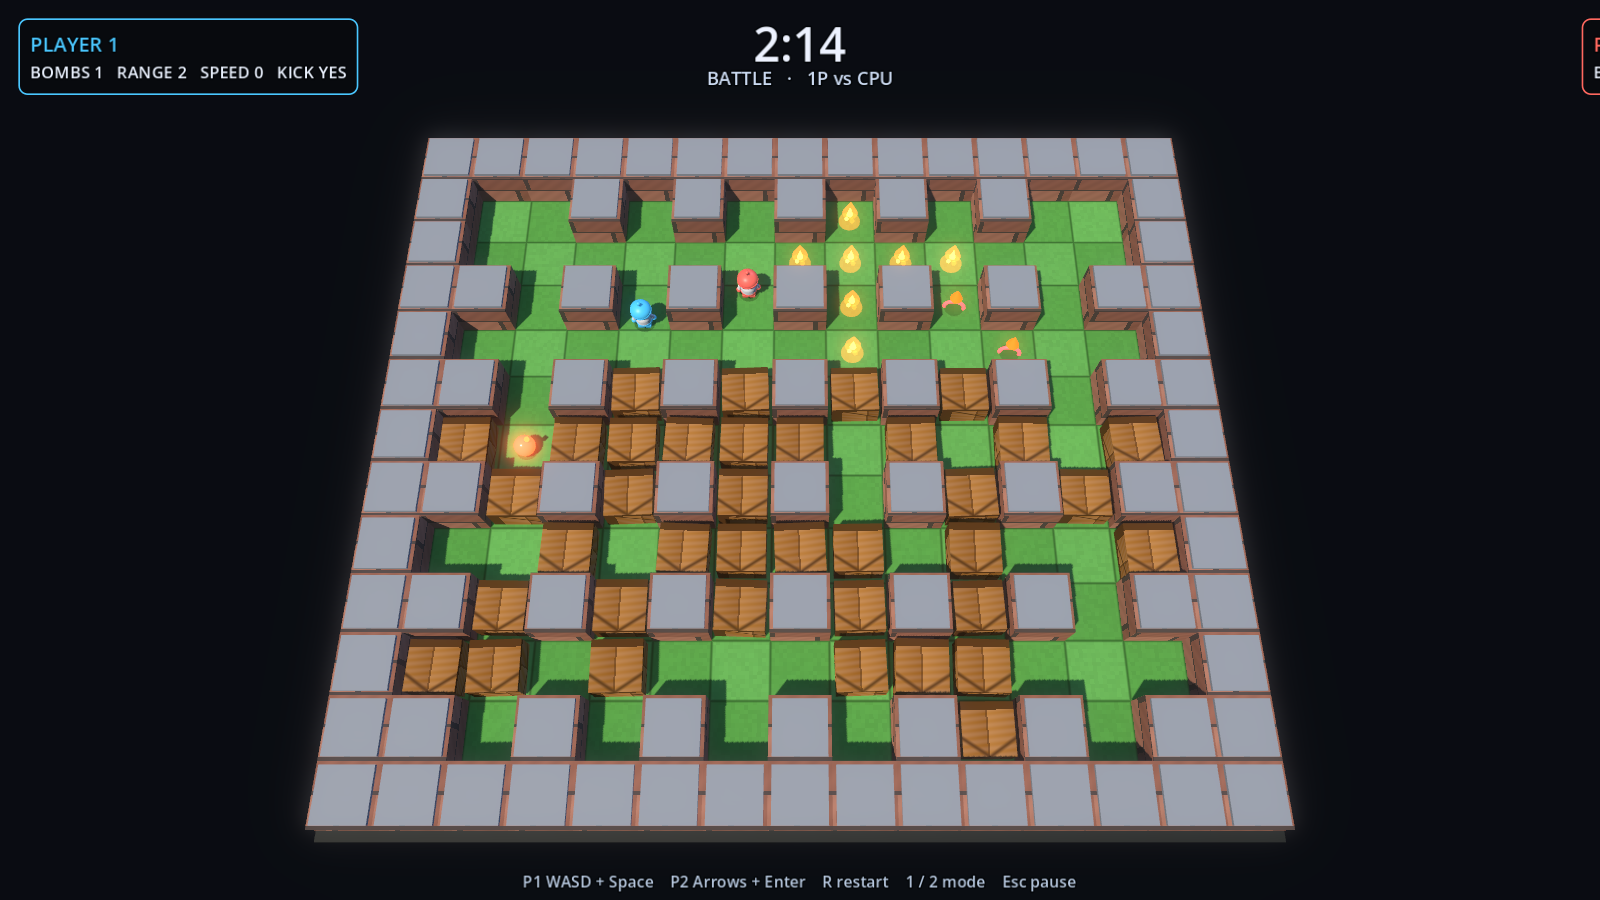
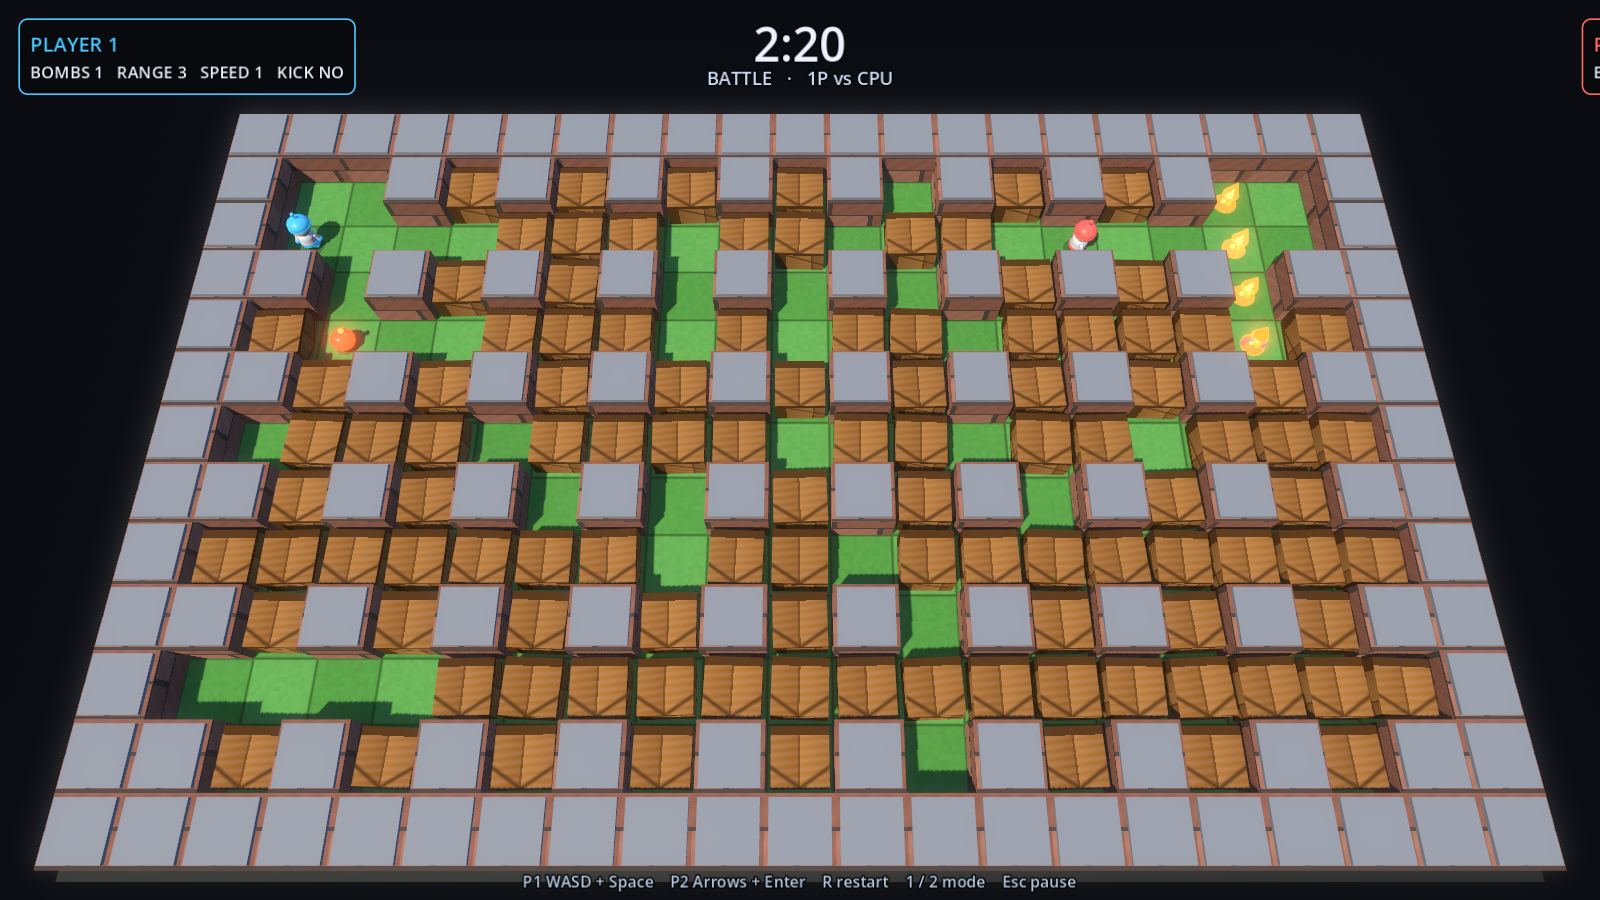
M2.7: fill the frame with a 21x13 arena and dense crates
Widen the playfield from 15x13 to 21x13, raise camera fit margin to 1.0, and push crate density to 82% so breakable cover outnumbers interior pillars (~1.95:1 on seed 4242). Keep the odd/odd pillar lattice and 3x3 spawn pocket after self-play rejected the even/even and 5x5 variants. Regenerate golden hashes, extend the UI flow round budget past sudden death, and run self-play on the shipping rules-driven arena. Update README, progress log, technical design, and the gameplay screenshot.

diff --git a/docs/PROGRESS.md b/docs/PROGRESS.md
@@ -4,11 +4,13 @@ Updated: 2026-11-04
 Environment: Windows 11 · Godot 4.7.2 stable · Python 3.12 · Node 24 · Git
 Project: `C:\Users\ALMASA\OneDrive\Documents\Default Project\fuse`
 
-**Status: M2.5 complete (verified). The game boots into a localized front end (English +
+**Status: M2.7 complete (verified). The game boots into a localized front end (English +
 Arabic with RTL), plays a best-of series with local 1P/2P, pause, settings and procedural
 SFX, and the arena now reads like classic Bomberman (grass checkerboard, brick pillars,
-wooden crates, white-suited fighters, glossy bombs, layered fire). Character art is still
-code-built primitives; no music, no external models/textures.**
+wooden crates, white-suited fighters, glossy bombs, layered fire). The **21×13 arena
+fills the 16:9 frame** and its **dense crate field outnumbers the permanent pillars**.
+Character art is still code-built primitives; no music, no external models/textures.
+Touch controls are wired into the input router but not yet shown on a build.**
 
 | Milestone | State |
 | --- | --- |
@@ -16,11 +18,63 @@ code-built primitives; no music, no external models/textures.**
 | M1 grey-box playable | ✅ complete, committed `4979242` |
 | M2 local versus front end | ✅ complete, committed `ee511a0` |
 | M2.5 localization + classic art pass | ✅ complete, committed `162e633` |
-| M2.6 input & feel pass | ✅ complete, verified (74 tests, 525 assertions) |
+| M2.6 input & feel pass | ✅ complete, committed `812d707` |
+| M2.7 full-screen arena + crate density | ✅ complete, verified (74 tests, 534 assertions) |
 | M3 vertical slice | ⬜ next |
 | M4 adventure campaign | ⬜ not started |
 | M5 online beta | ⬜ not started |
 | M6 release | ⬜ not started |
+
+---
+
+## M2.7 — full-screen arena + crate density (verified)
+
+### What changed for the player
+
+- **The board fills the screen.** The playfield widened from 15×13 to **21×13** and the
+  camera now frames it edge-to-edge (`FIT_MARGIN` 0.90 → 1.0). On a 1920×1080 capture the
+  arena occupies ~72 % of the width at the far edge, ~96 % at the near edge and ~97 % of
+  the height, instead of sitting inside a dark frame.
+- **Crates outnumber permanent rocks.** Crate density raised from 62 % to **82 %** of the
+  free interior. Seed 4242 at 21×13 produces **113 crates vs 58 interior pillars** (1.95:1);
+  the old 15×13 / 62 % board produced 72 vs 40. More cover means more routes to blast open
+  and fewer empty stone corridors.
+- **Classic pillar lattice kept.** Permanent rocks stay on the odd/odd lattice with the
+  3×3 spawn pocket, so the familiar two-tile lanes and safe openings remain.
+
+### Verification evidence
+
+```
+74 test(s), 534 assertion(s), 0 failure(s)
+PASS                                   (EXIT=0)
+UI flow: 56 check(s)                   (EXIT=0)
+AI self-play: ticks=4387 phase=4 winner=0
+  bombs=72 explosions=69 crates=90 pickups=24 eliminations=3 first_elim=396
+PASS                                   (EXIT=0)
+boot smoke, 180 frames                 (EXIT=0, no SCRIPT ERROR)
+core boundary check passed (11 file(s))     (EXIT=0)
+```
+
+Golden hashes were regenerated for the new arena dimensions/density:
+
+| Scenario | Hash |
+| --- | --- |
+| seed 4242, 600 ticks, scripted | `3624302480` |
+| seed 4242, 200 ticks, idle | `1871792400` |
+| seed 4242, 200 ticks, scripted | `4233387856` |
+
+The UI flow test now allows 15,000 ticks per round. A 1P round with an idle human only
+resolves after the match clock reaches sudden death (~9,400 ticks), so the old 9,000-tick
+cap stopped just before the CPU could win.
+
+### Tuning notes
+
+- The offset pillar lattice (even/even) and a 5×5 spawn pocket were both rejected: the
+  first made bots self-eliminate almost immediately, the second failed all tested
+  configurations at ~176 ticks. Odd/odd + a 3×3 pocket is the stable layout.
+- Self-play remains seed-sensitive at 82 % density: the official seed resolves, but some
+  seeds stalemate or end early. Arena balance tooling (`tools/arena_balance.gd`) is kept
+  for future tuning.
 
 ---
 
@@ -144,13 +198,13 @@ SMOKE_EXIT=0 · SELFPLAY_EXIT=0 · BOUNDARY_EXIT=0
 New coverage: mid-tile reversal, reversal blocked by a bomb, bomb-press buffering and
 expiry, countdown buffering, and `tests/test_input_router.gd` for event latching
 (bomb/P2/global actions/clear/suspend). Golden hashes were intentionally regenerated for
-the new speed curve and buffered-bomb state:
+the new speed curve and buffered-bomb state, then again in M2.7 for the 21×13 / 82 % arena:
 
 | Scenario | Hash |
 | --- | --- |
-| seed 4242, 600 ticks, scripted | `3618636086` |
-| seed 4242, 200 ticks, idle | `3308826698` |
-| seed 4242, 200 ticks, scripted | `4227721462` |
+| seed 4242, 600 ticks, scripted | `3624302480` |
+| seed 4242, 200 ticks, idle | `1871792400` |
+| seed 4242, 200 ticks, scripted | `4233387856` |
 
 ---
 
@@ -259,7 +313,8 @@ No `SCRIPT ERROR`, parse error or leaked-object warning in the log.
 
 ### What a player can do
 
-- Launch the project and immediately play a full match on a generated 15×13 arena.
+- Launch the project and immediately play a full match on a generated arena (currently
+  21×13 with a dense crate field).
 - **1P vs CPU** (default) or **2P local** (`1` / `2` to switch modes).
 - Move in cardinal directions with buffered input, drop bombs, chain-detonate them,
   destroy crates, collect four pickup types (extra bomb, range, speed, kick).
@@ -424,13 +479,13 @@ Behavior contracts pinned by tests:
 ### 5. Golden hashes
 
 Locked in `tests/test_golden.gd` (regenerate with `tools/dump_golden_hash.gd` only when
-a simulation change is intentional; regenerated in M2.6 for the input/speed pass):
+a simulation change is intentional; last regenerated in M2.7 for the arena change):
 
 | Scenario | Hash |
 | --- | --- |
-| seed 4242, 600 ticks, scripted commands | `3618636086` |
-| seed 4242, 200 ticks, idle | `3308826698` |
-| seed 4242, 200 ticks, scripted | `4227721462` |
+| seed 4242, 600 ticks, scripted commands | `3624302480` |
+| seed 4242, 200 ticks, idle | `1871792400` |
+| seed 4242, 200 ticks, scripted | `4233387856` |
 
 Soak: 10,000 ticks with 4 players and no scene tree, under the 5 s budget.
 

diff --git a/README.md b/README.md
@@ -3,15 +3,16 @@
 Working title for a modern **2.5D bomb-arena action game** (Atomic Bomberman-inspired),
 built in **Godot 4.7.2**. Windows first, Android after.
 
-> **Status: M2.6 — localized front end, classic art pass, input polish (verified).**
+> **Status: M2.7 — full-screen arena, classic art pass, input polish (verified).**
 > Title screen with a live AI attract match → mode select → best-of series → results →
 > rematch. Pause menu, persisted settings, and event-driven procedural sound effects are
 > in. **Arabic and English ship from day one**, with RTL layout and a bundled
-> Arabic-capable font. The arena now reads like classic Bomberman: grass checkerboard,
-> terracotta brick pillars, wooden crates, white-suited characters with coloured helmets,
-> glossy black bombs and layered fire. Movement reverses instantly, input presses are
-> latched per event and bombs are buffered for 100 ms. All art is still **code-built 3D
-> primitives and shaders** — no external models or textures, and no music yet.
+> Arabic-capable font. The arena now reads like classic Bomberman: a **21×13 board that
+> fills the 16:9 frame**, grass checkerboard, terracotta brick pillars, a dense crate
+> field, white-suited characters with coloured helmets, glossy black bombs and layered
+> fire. Movement reverses instantly, input presses are latched per event and bombs are
+> buffered for 100 ms. All art is still **code-built 3D primitives and shaders** — no
+> external models or textures, and no music yet.
 > See [`docs/PROGRESS.md`](docs/PROGRESS.md) for exactly what exists and what does not.
 
 ![Title screen](docs/screenshots/m2-title-en.png)
@@ -25,8 +26,8 @@ match.*
 
 ![Classic match](docs/screenshots/m2-gameplay-en.png)
 
-*Real captured frame from `--shot` mode, tick 1101: two fighters, an armed bomb, fire and
-pickups on the green checkerboard.*
+*Real captured frame from `--shot` mode, tick 779: two fighters, an armed bomb, fire and
+pickups on the green checkerboard of the 21×13 arena.*
 
 ---
 
@@ -153,7 +154,7 @@ $godot = "$env:LOCALAPPDATA\Programs\Godot\4.7.2\Godot_v4.7.2-stable_win64_conso
 & $godot --headless --path . --script res://tests/run_tests.gd
 ```
 
-Expected: `74 test(s), 525 assertion(s), 0 failure(s)` then `PASS` and exit code `0`.
+Expected: `74 test(s), 534 assertion(s), 0 failure(s)` then `PASS` and exit code `0`.
 Add `-- --verbose` to list each test by name.
 
 End-to-end menu test (real scene tree, synthesized key events, real AI matches to a

diff --git a/docs/TECHNICAL_DESIGN.md b/docs/TECHNICAL_DESIGN.md
@@ -35,7 +35,7 @@ solo dev + AI agent, Windows + Android).
 | Candidate | Rendering fit | Character animation | Grid gameplay | Pads / local MP | Online path | Win + Android | Agent-friendliness | Verdict |
 | --- | --- | --- | --- | --- | --- | --- | --- | --- |
 | **Godot 4.7** | Strong with art direction; SSAO/SSIL, glow, fog, decals, GPU particles, shaders | Strong: glTF skeletal, AnimationTree blend trees/state machines, IK modifiers, blend shapes | Excellent — no engine friction | Excellent, per-device input | Good: build authoritative headless server | Excellent, one-click export | Excellent: text scenes/resources, headless CLI, small diffs | **Pick** |
-| Unreal 5 | Best raw fidelity (Lumen/Nanite) | Best-in-class (Control Rig, Sequencer) | Overkill | Good | Good (dedicated server) | Heavy; tens of GB, slow iteration | Poor: binary assets, C++/Blueprint, slow builds | Wrong cost/benefit for a 15×13 arena game |
+| Unreal 5 | Best raw fidelity (Lumen/Nanite) | Best-in-class (Control Rig, Sequencer) | Overkill | Good | Good (dedicated server) | Heavy; tens of GB, slow iteration | Poor: binary assets, C++/Blueprint, slow builds | Wrong cost/benefit for a small arena game |
 | Bevy (Rust) | Good | Weak–moderate: no editor, hand-built state machines, immature skinning workflow | Excellent ECS | Moderate | Weak | Moderate | Strong for code, weak for content/art iteration | High-risk research project |
 | Three.js / R3F | Moderate; stylized is achievable but lighting/animation tooling is manual | Weak: no skeletal pipeline, no blend trees | Excellent | Weak for native pads | Excellent (Colyseus proven) | Browser only (+ Capacitor wrapper) | Strong | Keep as web demo/reference, not the premium build |
 | Cocos Creator 3.8 | Good | Moderate | Good | Moderate | Moderate | Good (Android-first) | Moderate | Viable, no advantage over Godot |
@@ -150,7 +150,8 @@ fuse/
 
 ### 5.3 Gameplay model (M1 scope)
 
-- Grid: 15×13 default, configurable per arena; border walls, pillar lattice, crate field.
+- Grid: 21×13 default, configurable per arena; border walls, odd/odd pillar lattice,
+  dense crate field (82 % of free interior tiles).
 - Movement: tile-to-tile stepping with fixed-point interpolation, one-input buffer,
   corner assist. Crisp, deterministic, network-friendly. Not free 8-way physics.
 - Bomb: capacity, fuse, range, chain via tick-ordered propagation queue.
